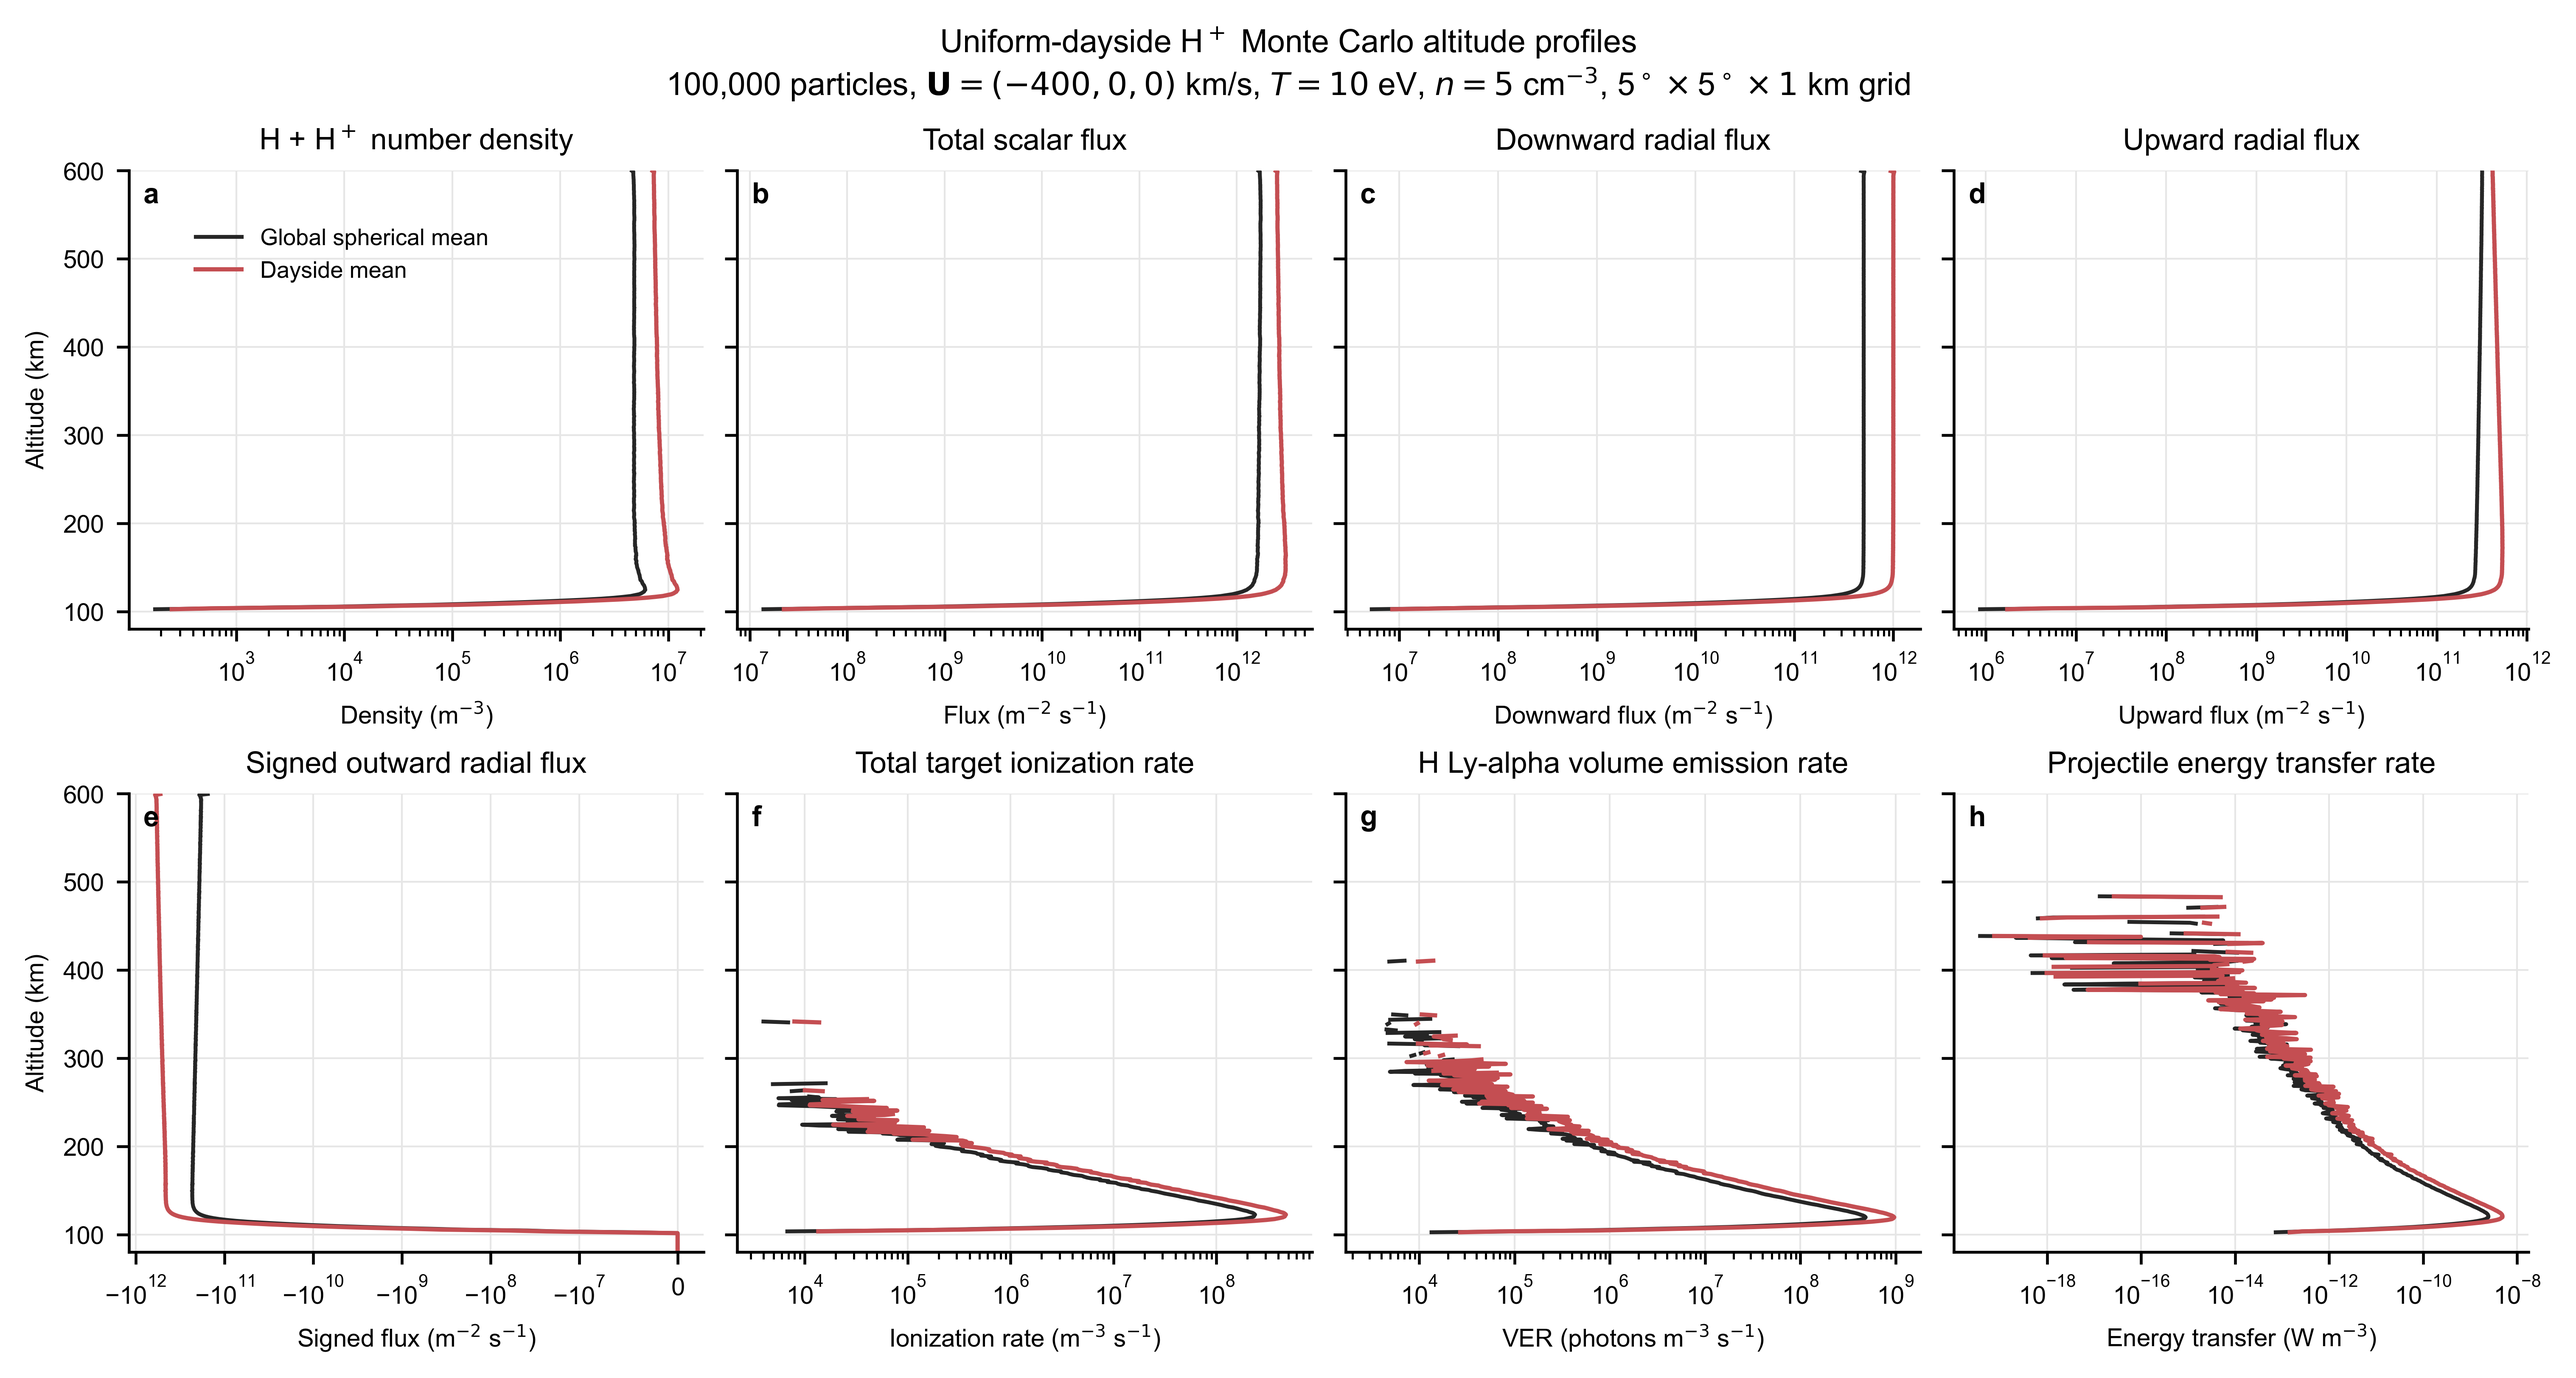
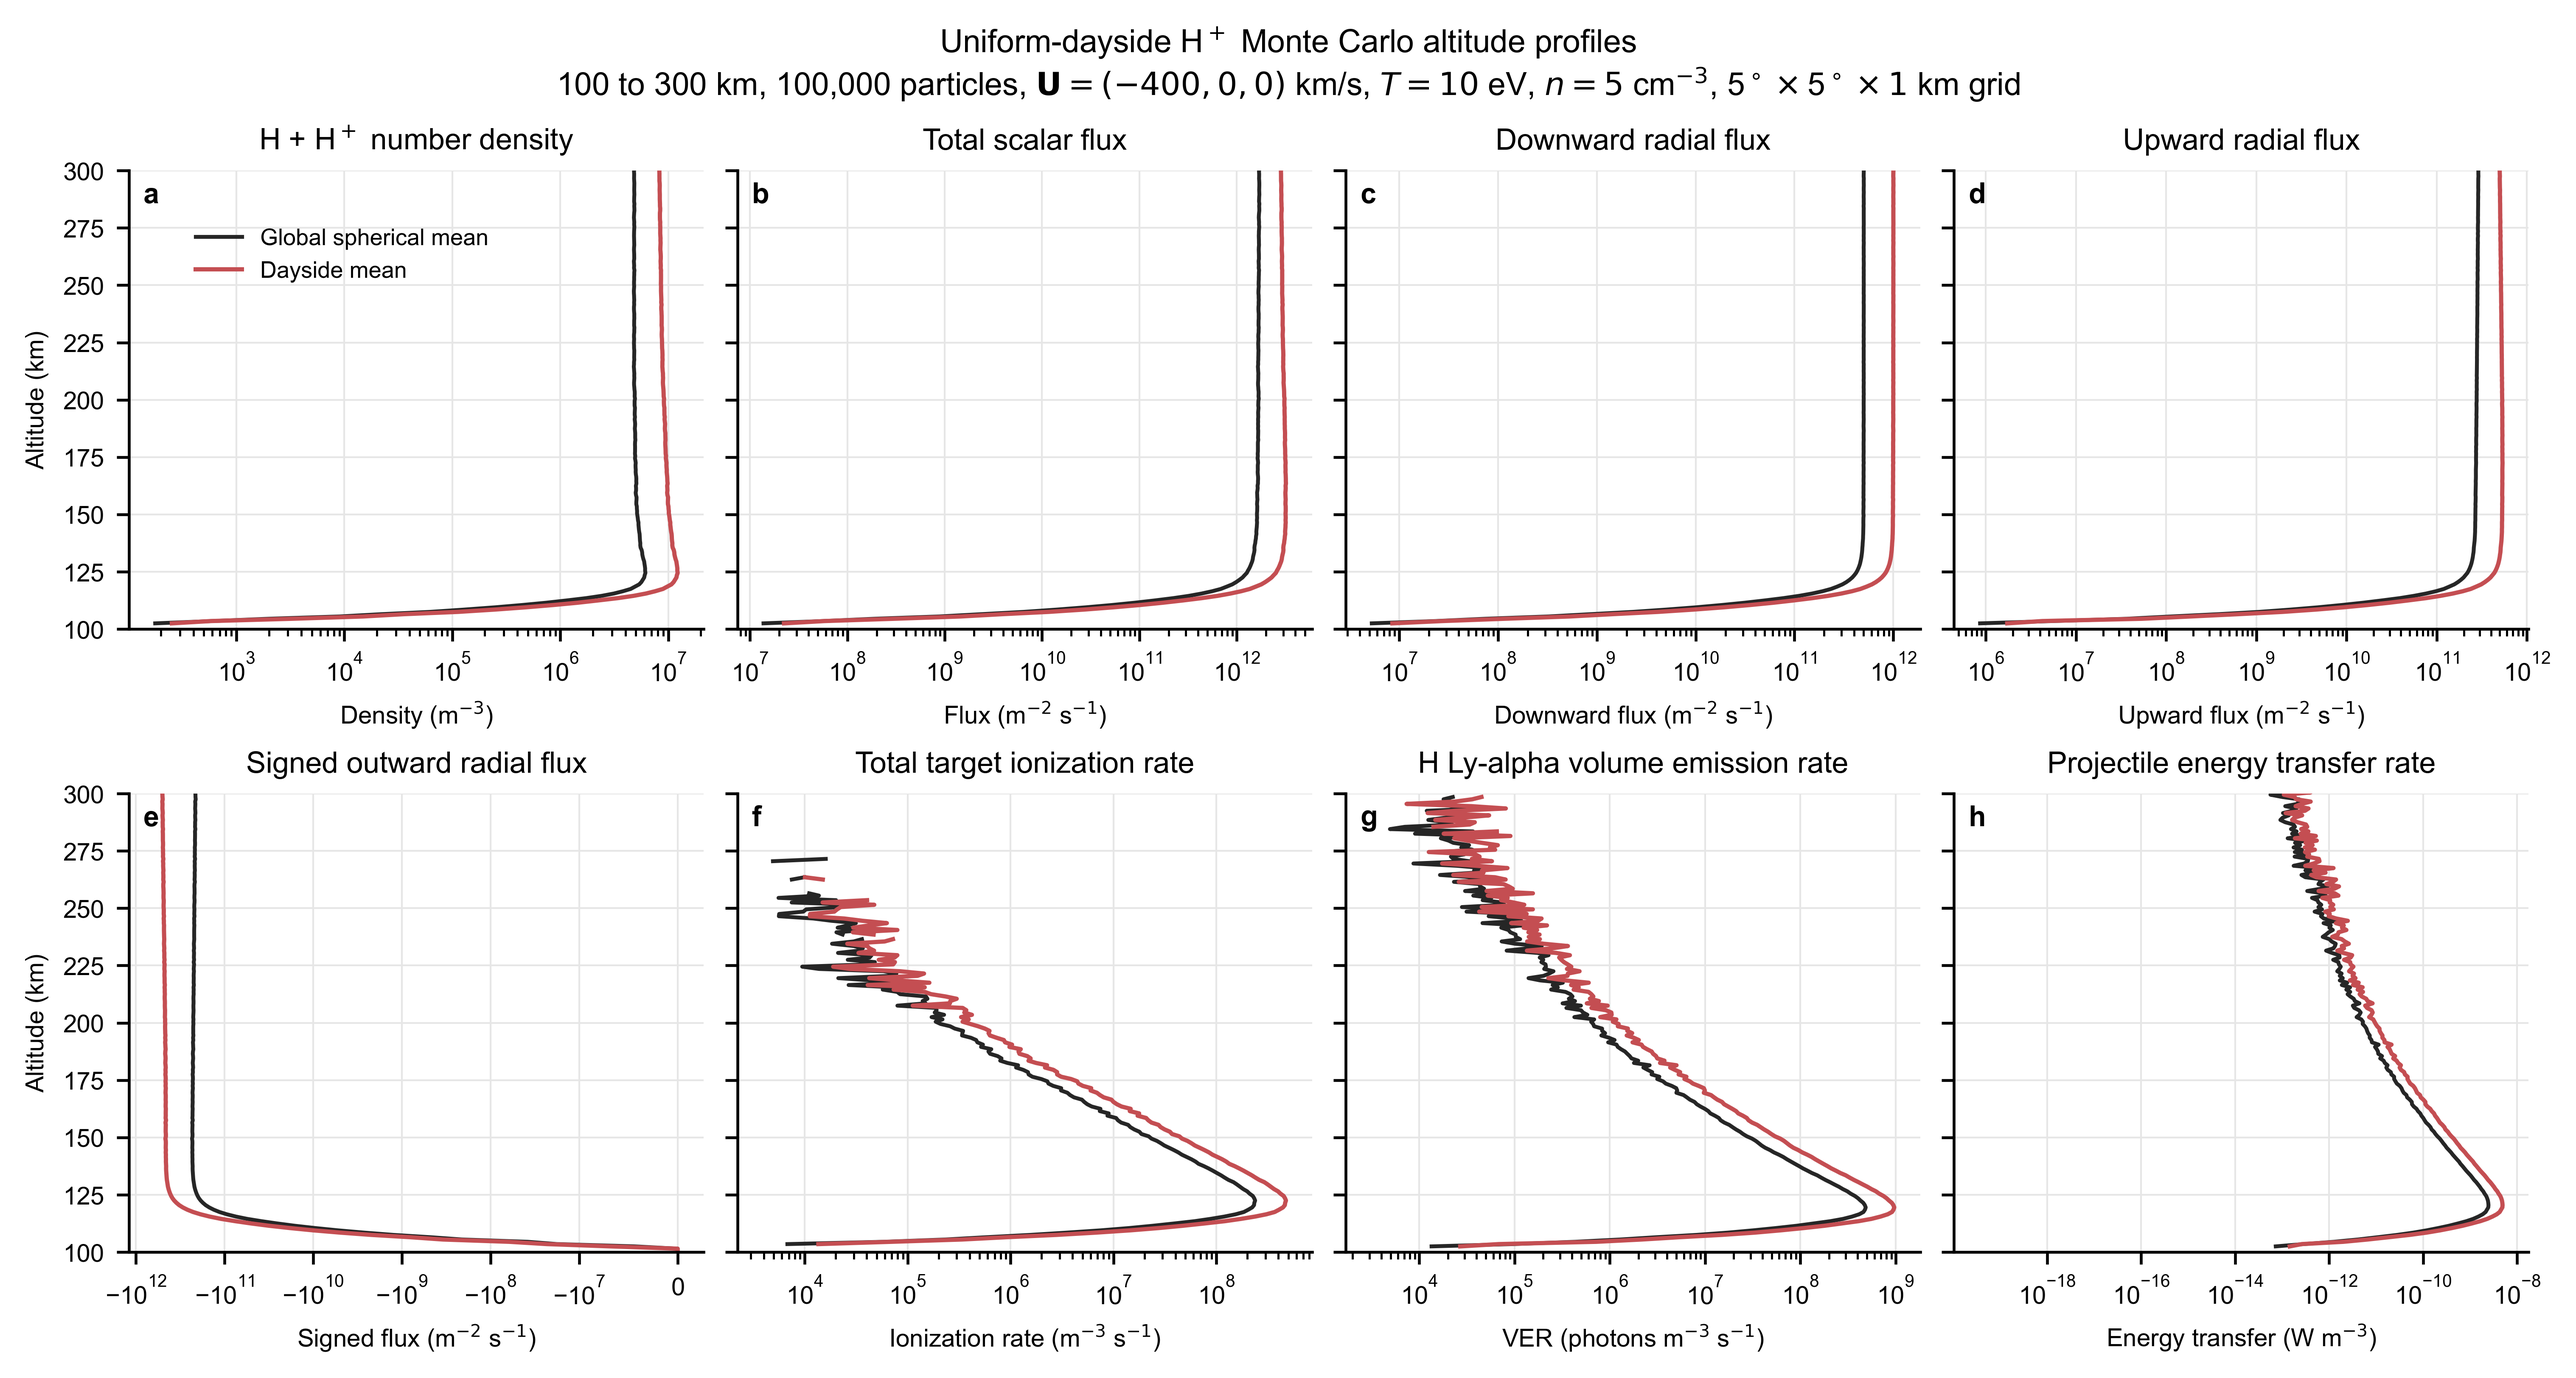
Limit 3D altitude profiles to 100-300 km

diff --git a/examples/plot_dayside_3d_altitude_profiles.py b/examples/plot_dayside_3d_altitude_profiles.py
@@ -12,6 +12,8 @@ import numpy as np
 
 REPO = Path(__file__).resolve().parents[1]
 sys.path.insert(0, str(REPO / "analysis"))
+ALTITUDE_MIN_KM = 100.0
+ALTITUDE_MAX_KM = 300.0
 
 from marsaspen_analysis import load_history_mat  # noqa: E402
 
@@ -140,7 +142,8 @@ def main() -> None:
             label="Dayside mean",
         )
         axis.set(
-            ylim=(80, 600), title=title, xlabel=xlabel,
+            ylim=(ALTITUDE_MIN_KM, ALTITUDE_MAX_KM),
+            title=title, xlabel=xlabel,
         )
         if panel % 4 == 0:
             axis.set_ylabel("Altitude (km)")
@@ -153,6 +156,7 @@ def main() -> None:
     axes[0, 0].legend(loc="upper left", bbox_to_anchor=(0.08, 0.92), fontsize=6.5)
     fig.suptitle(
         "Uniform-dayside H$^+$ Monte Carlo altitude profiles\n"
+        f"{ALTITUDE_MIN_KM:.0f} to {ALTITUDE_MAX_KM:.0f} km, "
         r"100,000 particles, $\mathbf{U}=(-400,0,0)$ km/s, "
         r"$T=10$ eV, $n=5$ cm$^{-3}$, "
         r"5$^\circ\times$5$^\circ\times1$ km grid",
@@ -162,9 +166,16 @@ def main() -> None:
     fig.savefig(args.output, dpi=600, bbox_inches="tight")
     plt.close(fig)
     print(f"output={args.output.resolve()}")
+    displayed = (
+        (altitude >= ALTITUDE_MIN_KM) &
+        (altitude <= ALTITUDE_MAX_KM)
+    )
     for title, profile in zip(titles, dayside_profiles):
-        if np.any(np.isfinite(profile)):
-            index = int(np.nanargmax(np.abs(profile)))
+        if np.any(np.isfinite(profile[displayed])):
+            displayed_indices = np.flatnonzero(displayed)
+            index = displayed_indices[
+                int(np.nanargmax(np.abs(profile[displayed])))
+            ]
             print(
                 f"{title}: dayside_peak={profile[index]:.9g} "
                 f"at {altitude[index]:.1f} km"

diff --git a/examples/README.md b/examples/README.md
@@ -747,7 +747,8 @@ C:\Users\Win\.conda\envs\mars\python.exe examples/plot_dayside_3d_altitude_profi
 
 The PNG is
 `examples/figures/dayside_hplus_100000_3d_altitude_profiles_8panel.png`.
-Each panel contains a global spherical-area mean and a dayside-area mean.
+The displayed altitude range is 100 to 300 km. Each panel contains a global
+spherical-area mean and a dayside-area mean.
 Latitude weighting uses the exact spherical factor
 `sin(lat_upper)-sin(lat_lower)`, rather than treating every latitude bin as
 having the same area. The signed radial-flux panel uses a symmetric logarithmic
